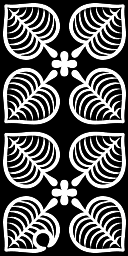
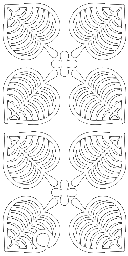
just playing with canvas

diff --git a/src/passport/passport.js b/src/passport/passport.js
@@ -27,9 +27,13 @@ module.exports.Passport = class Passport {
   }
 
   async middleBackground() {
+    this.ctx.save();
+    this.ctx.globalCompositeOperation = "darken";
+    this.ctx.globalAlpha = 0.2;
     const background = await this.Canvas.loadImage('./src/passport/middlePattern.png');
     this.ctx.fillStyle = this.ctx.createPattern(background, "repeat");
     this.ctx.fillRect(0, 130, this.canvas.width, 720)
+    this.ctx.restore();
   }
 
   async draw() {
